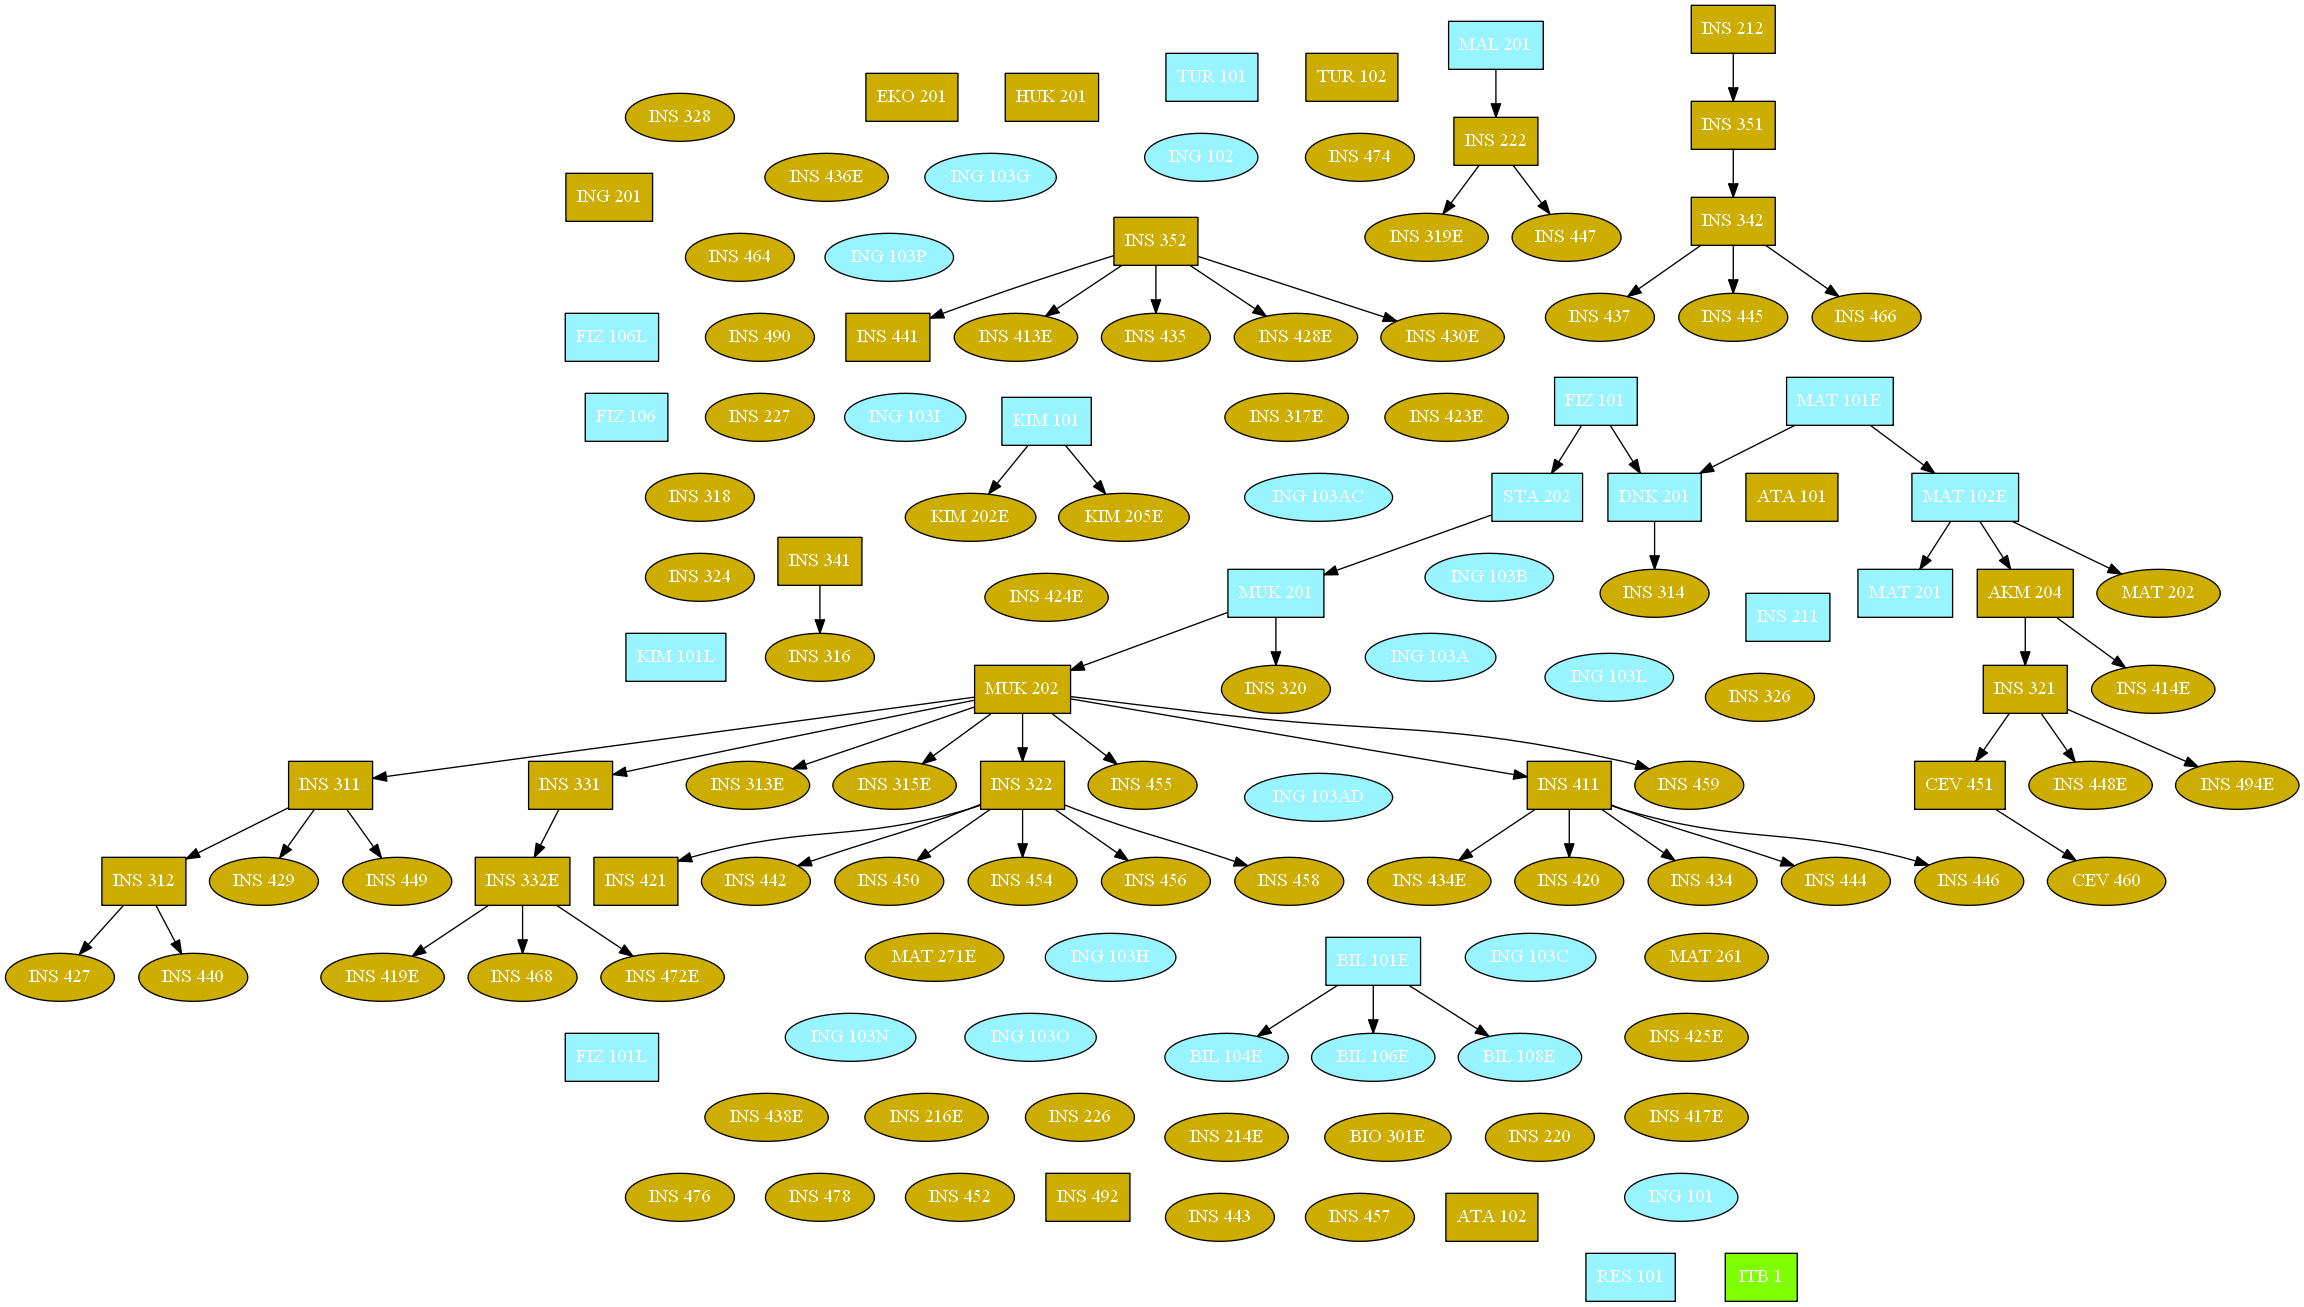
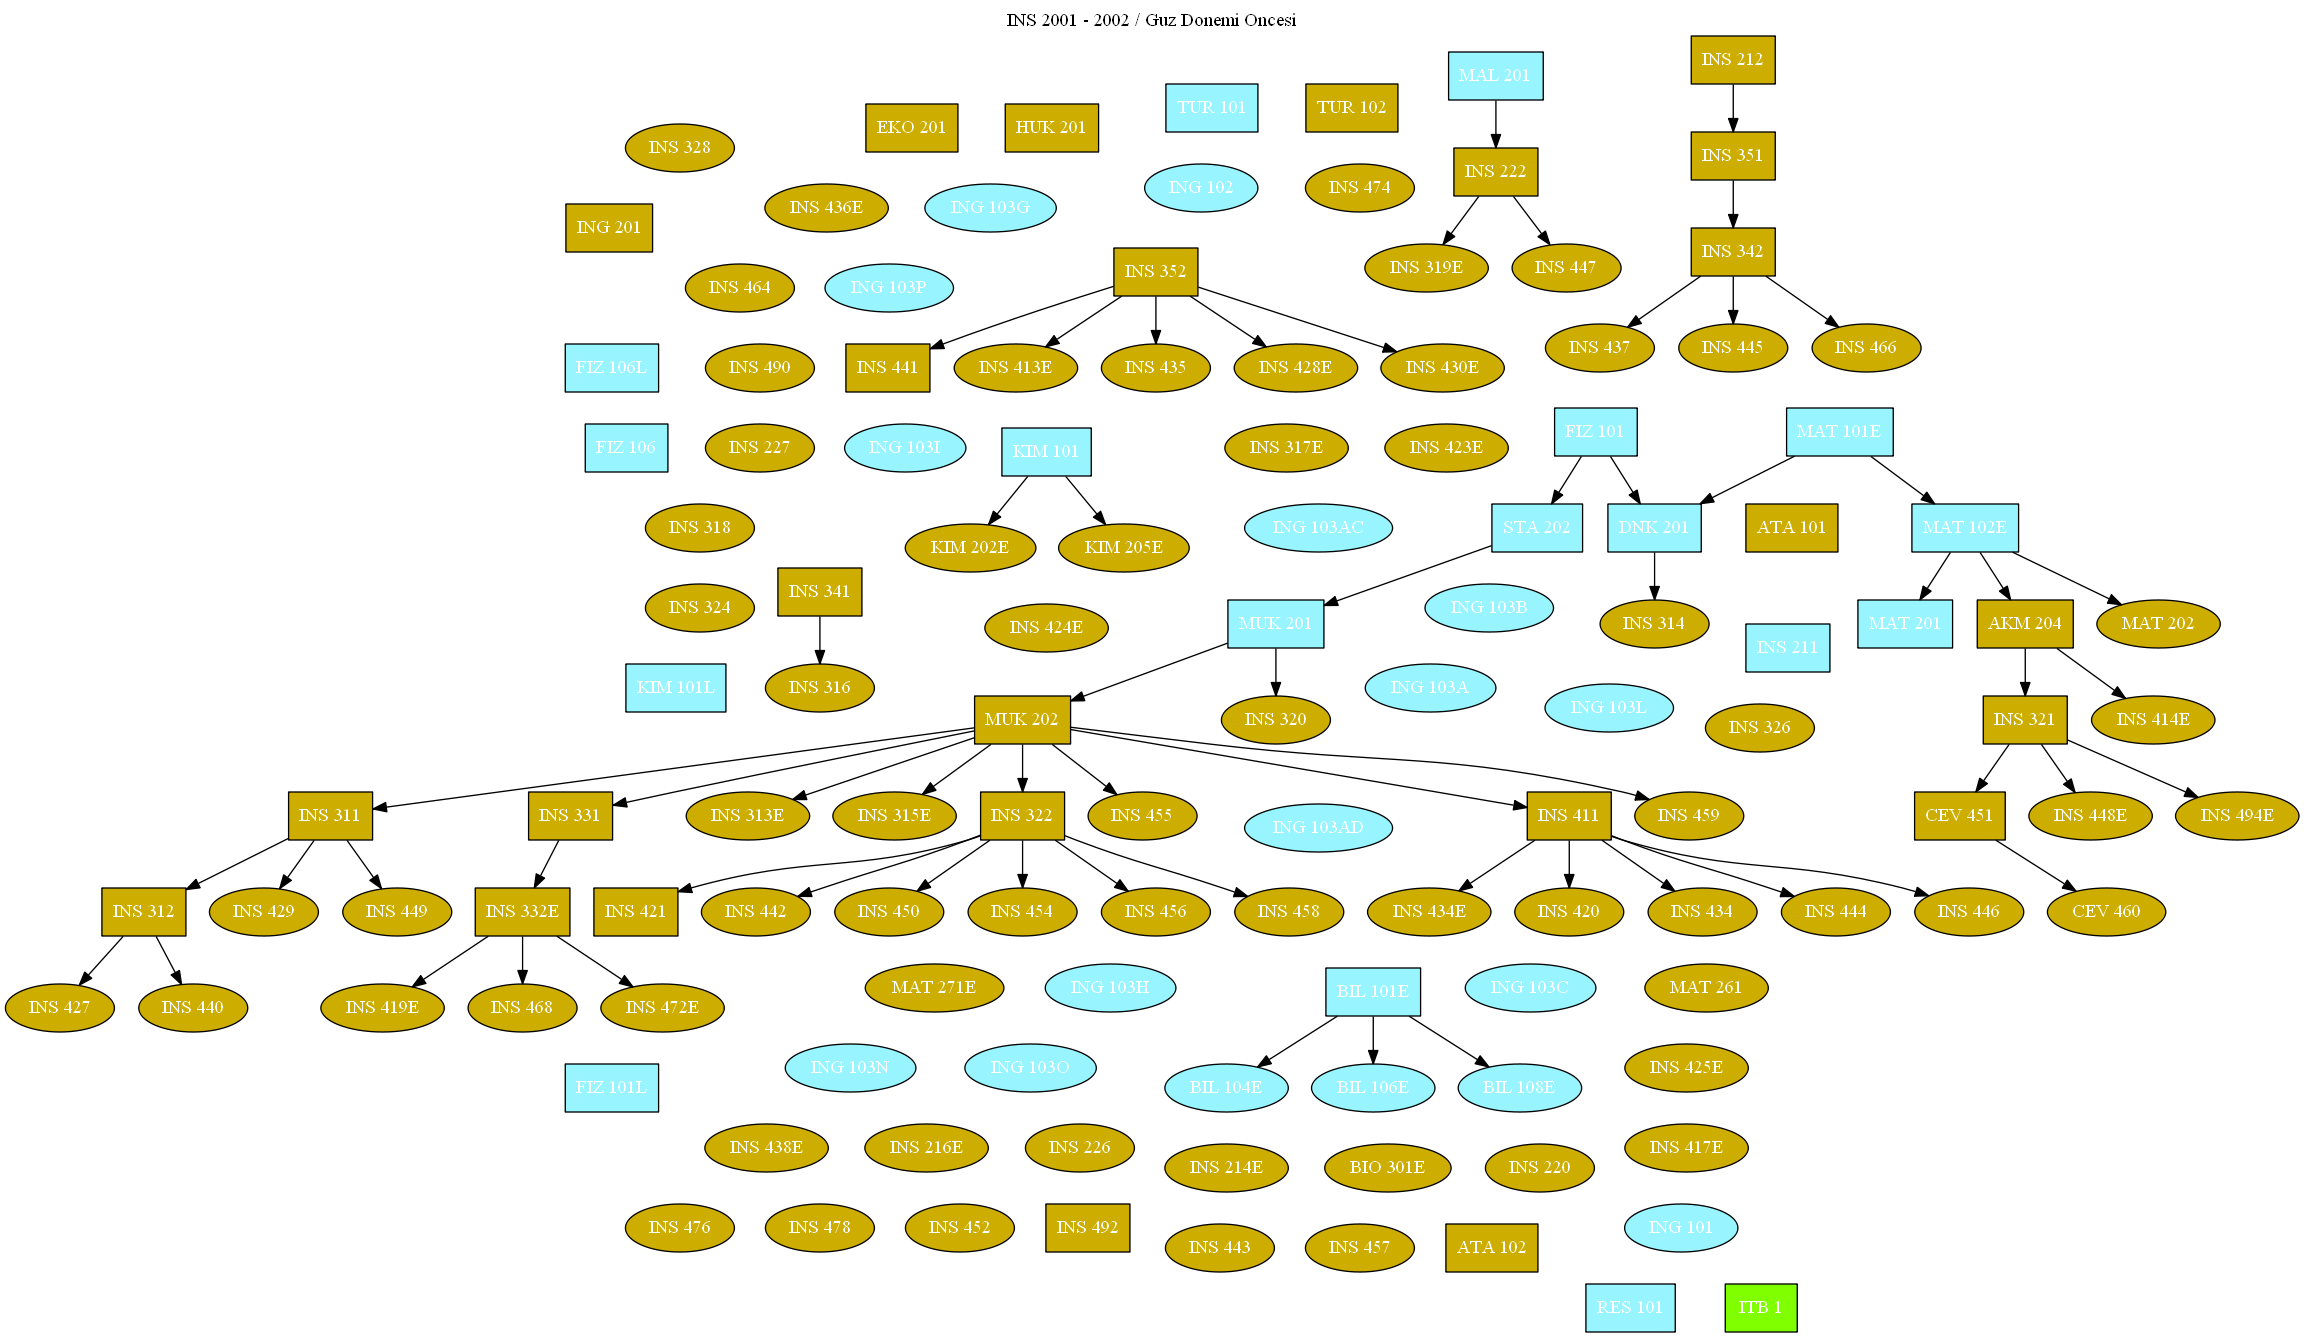
title update
Added title to output graph

diff --git a/src/graph.py b/src/graph.py
@@ -3,7 +3,7 @@ import database as db
 from database import CourseType
 
 def draw_graph(term):
-	g = pydot.Dot(graph_type = 'digraph', pack = True)
+	g = pydot.Dot(graph_type = 'digraph', pack = True, label = "{} {}".format(term.program_code, term.name), labelloc = 't')
 
 	for c in term.courses:
 		types = [CourseType.NORMAL, CourseType.ITB, CourseType.MT, CourseType.TM, CourseType.TB, CourseType.SNT]
